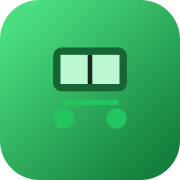
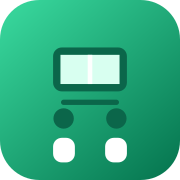
Applica icona smeraldo a Gestione Bus

diff --git a/index.html b/index.html
@@ -6,10 +6,10 @@
 <meta http-equiv="Cache-Control" content="no-cache, no-store, must-revalidate">
 <meta http-equiv="Pragma" content="no-cache">
 <meta http-equiv="Expires" content="0">
-<meta name="app-version" content="8.87">
-<title>Gestione Bus v8.87</title>
-<link rel="icon" type="image/svg+xml" href="icon.svg?v=887">
-<link rel="apple-touch-icon" sizes="180x180" href="apple-touch-icon.png?v=887">
+<meta name="app-version" content="8.88">
+<title>Gestione Bus v8.88</title>
+<link rel="icon" type="image/svg+xml" href="icon.svg?v=888">
+<link rel="apple-touch-icon" sizes="180x180" href="apple-touch-icon.png?v=888">
 <link href="https://fonts.googleapis.com/css2?family=DM+Sans:wght@300;400;500;600;700&display=swap" rel="stylesheet">
 <style>
   :root {
